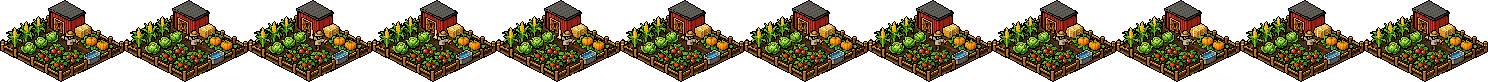
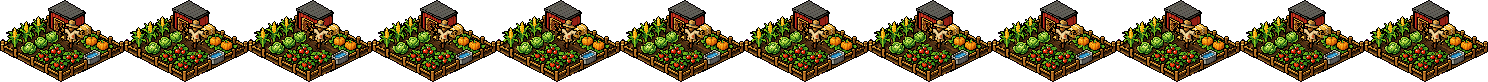
Farm: Garden Plot's scarecrow (same pixels) replaces ChatGPT's half-size one, front and back; back view (119x73, read at 6.52); crops ripple + scarecrow sway on both
Claude-Session: https://claude.ai/code/session_014xWrqmw1tDuMEr3xW9Kw6Z

diff --git a/tools/art/farm_scarecrow.py b/tools/art/farm_scarecrow.py
@@ -1,0 +1,42 @@
+#!/usr/bin/env python3
+"""Give the 2x2 Farm the same big scarecrow as the 1x1 Garden Plot (ChatGPT drew it about half that size): the Garden Plot's
+scarecrow pixels are lifted out unchanged and stood where the small one was; the small one's pixels are first replaced by
+the soil or crop beside them. The back view gets the same scarecrow mirrored (seen from behind it looks the same).
+    python3 tools/art/farm_scarecrow.py"""
+from PIL import Image, ImageOps
+T = 'assets/buildings/t56/'
+def lift():
+    f = Image.open(T + 'farm.png').convert('RGBA'); p = f.load()
+    o = Image.new('RGBA', (30, 31), (0, 0, 0, 0)); q = o.load()
+    for y in range(31):
+        xr = range(26, 54) if y < 16 else (range(34, 45) if y < 23 else range(36, 41))
+        for x in xr:
+            c = p[x, y]
+            if c[3] and not (y >= 23 and c[1] > c[0] + 10): q[x - 26, y] = c
+    return o, (12, 30)                       # sprite, pole foot
+def small(c):                                # the small scarecrow's straw hat, shirt, hat band and outline
+    r, g, b, a = c
+    return a and ((r > 180 and g > 140 and b < 110) or (min(r, g, b) > 150 and max(r, g, b) - min(r, g, b) < 60)
+                  or (b > r and b > 80 and g < 120) or (r > 130 and 60 < g < 110 and b < 60))
+def place(name, box, foot, mirror, keep=None):
+    im = Image.open(T + name).convert('RGBA'); p = im.load(); x0, y0, x1, y1 = box
+    for y in range(y0, y1 + 1):
+        for x in range(x0, x1 + 1):
+            if small(p[x, y]) or (max(p[x, y][:3]) < 40 and any(small(p[x + a, y + b]) for a in (-1, 0, 1) for b in (-1, 0, 1))):
+                q = x - 1
+                while q > x0 - 6 and (small(p[q, y]) or max(p[q, y][:3]) < 40): q -= 1
+                p[x, y] = p[q, y]
+    s, (fx, fy) = lift()
+    if mirror: s = ImageOps.mirror(s); fx = s.width - 1 - fx
+    before = im.copy(); bp = before.load()
+    im.alpha_composite(s, (foot[0] - fx, foot[1] - fy))
+    if keep:   # things standing in front of the scarecrow (the barn in the back view) stay in front
+        q = im.load(); X0, Y0, X1, Y1 = keep
+        for x in range(X0, X1 + 1):
+            for y in range(Y0, Y1 + 1):
+                r, g, b, a = bp[x, y]
+                if a and ((abs(r - g) < 16 and abs(g - b) < 16 and 40 < r < 150) or (r > 110 and g < 75 and b < 75)): q[x, y] = bp[x, y]
+    im.save(T + name)
+if __name__ == '__main__':
+    place('field.png', (64, 31, 76, 50), (70, 49), False)
+    place('field_back.png', (56, 16, 67, 37), (61, 37), True, keep=(40, 28, 75, 40))

diff --git a/tools/art/field_anim.py b/tools/art/field_anim.py
@@ -1,0 +1,16 @@
+#!/usr/bin/env python3
+"""Farm (2x2) animation, front and back: crop leaves ripple (farm_anim.frames with no row sway) and the scarecrow's own
+pixels sway 1 px (farm_anim.masked_sway), so the crops and barn behind it stay put.
+    python3 tools/art/field_anim.py"""
+import sys
+from PIL import Image
+sys.path.insert(0, 'tools/art')
+import farm_anim as fa
+T = 'assets/buildings/t56/'
+for name, box in (('field', (56, 19, 88, 34)), ('field_back', (42, 7, 75, 22))):
+    im = Image.open(T + name + '.png').convert('RGBA')
+    base = fa.frames(im, (0, 0, 0, 0), -1, 12)          # empty scarecrow box: crops only
+    fr = fa.masked_sway(im, base, [box])
+    st = Image.new('RGBA', (im.width * len(fr), im.height), (0, 0, 0, 0))
+    for i, f in enumerate(fr): st.alpha_composite(f, (i * im.width, 0))
+    st.save(T + name + '_anim.png'); print(name, len(fr), im.size)
